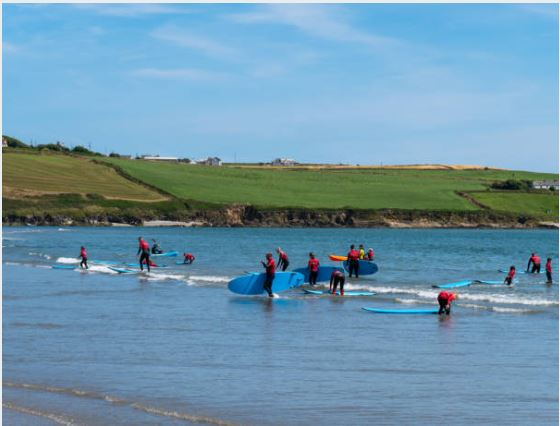
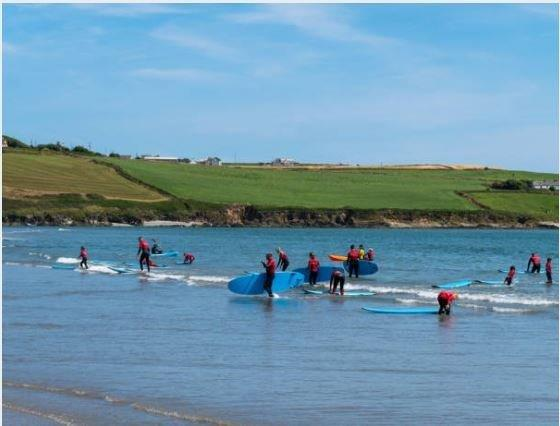
Alter image field in blog model, re-upload images

diff --git a/surf_haven/settings.py b/surf_haven/settings.py
@@ -1,14 +1,3 @@
-"""
-Django settings for surf_haven project.
-
-Generated by 'django-admin startproject' using Django 3.2.21.
-
-For more information on this file, see
-https://docs.djangoproject.com/en/3.2/topics/settings/
-
-For the full list of settings and their values, see
-https://docs.djangoproject.com/en/3.2/ref/settings/
-"""
 
 from pathlib import Path
 import os
@@ -30,9 +19,10 @@ TEMPLATES_DIR = os.path.join(BASE_DIR, 'templates')
 SECRET_KEY = os.environ.get('SECRET_KEY')
 
 # SECURITY WARNING: don't run with debug turned on in production!
+
 development = os.environ.get('DEVELOPMENT', False)
 
-DEBUG = False
+DEBUG = True
 
 ALLOWED_HOSTS = ['surf-haven-39d68e86c0f1.herokuapp.com',
                  '8000-bwogit-cipp5surfhaven-5o9dy0ts1dt.ws-eu104.gitpod.io',
@@ -125,7 +115,7 @@ AUTHENTICATION_BACKENDS = [
 
 SITE_ID = 1
 
-# EMAIL_BACKEND = 'django.core.mail.backends.console.EmailBackend'
+EMAIL_BACKEND = 'django.core.mail.backends.console.EmailBackend'
 
 ACCOUNT_AUTHENTICATION_METHOD = 'username_email'
 ACCOUNT_EMAIL_REQUIRED = True
@@ -148,29 +138,22 @@ WSGI_APPLICATION = 'surf_haven.wsgi.application'
 #    }
 # }
 
-DATABASES = {
-   'default': dj_database_url.parse(os.environ.get("DATABASE_URL"))
-}
-# if 'DATABASE_URL' in os.environ:
-#     DATABASES = {
-#         'default': dj_database_url.parse(os.environ.get('DATABASE_URL'))
-#     }
-# else:
-#     DATABASES = {
-#         'default': {
-#             'ENGINE': 'django.db.backends.sqlite3',
-#             'NAME': os.path.join(BASE_DIR, 'db.sqlite3'),
-#         }
-#     }
-# if os.environ.get("DEBUG"):
-#     DATABASES = {
-#         "default": {
-#             "ENGINE": "django.db.backends.sqlite3",
-#             "NAME": BASE_DIR / "db.sqlite3",
-#         }
-#     }
-# else:
-#     DATABASES = {"default": dj_database_url.parse(environ.get("DATABASE_URL"))}
+# DATABASES = {
+#    'default': dj_database_url.parse(os.environ.get("DATABASE_URL"))
+# }
+
+if 'DATABASE_URL' in os.environ:
+    DATABASES = {
+        'default': dj_database_url.parse(os.environ.get('DATABASE_URL'))
+    }
+else:
+    DATABASES = {
+        'default': {
+            'ENGINE': 'django.db.backends.sqlite3',
+            'NAME': os.path.join(BASE_DIR, 'db.sqlite3'),
+        }
+    }
+
 
 # Password validation
 # https://docs.djangoproject.com/en/3.2/ref/settings/#auth-password-validators
@@ -215,10 +198,9 @@ STATICFILES_DIRS = (os.path.join(BASE_DIR, 'static'),)
 
 MEDIA_URL = '/media/'
 MEDIA_ROOT = os.path.join(BASE_DIR, 'media')
-STATIC_ROOT = os.path.join(BASE_DIR, 'staticfiles')
 
-# STATICFILES_STORAGE = 'cloudinary_storage.storage.StaticHashedCloudinaryStorage'
-# DEFAULT_FILE_STORAGE = 'cloudinary_storage.storage.MediaCloudinaryStorage'
+# STATIC_ROOT = os.path.join(BASE_DIR, 'staticfiles')
+
 # Default primary key field type
 # https://docs.djangoproject.com/en/3.2/ref/settings/#default-auto-field
 

diff --git a/blog/models.py b/blog/models.py
@@ -28,10 +28,8 @@ class Post(models.Model):
     created_date = models.DateTimeField(auto_now_add=True)  # set on creation
     updated_date = models.DateTimeField(auto_now=True)  # update on every save
     content = models.TextField()
-    featured_image = models.ImageField(
-        null=True,
-        blank=True
-        )
+    featured_image = models.ImageField(upload_to='blog/',
+                                       null=True, blank=True)
     excerpt = models.TextField(blank=True)
     status = models.IntegerField(choices=STATUS, default=0)
 

diff --git a/blog/migrations/0004_alter_post_featured_image.py b/blog/migrations/0004_alter_post_featured_image.py
@@ -1,0 +1,18 @@
+# Generated by Django 3.2.21 on 2023-10-11 11:35
+
+from django.db import migrations, models
+
+
+class Migration(migrations.Migration):
+
+    dependencies = [
+        ('blog', '0003_auto_20231006_1024'),
+    ]
+
+    operations = [
+        migrations.AlterField(
+            model_name='post',
+            name='featured_image',
+            field=models.ImageField(blank=True, null=True, upload_to='blog/'),
+        ),
+    ]
